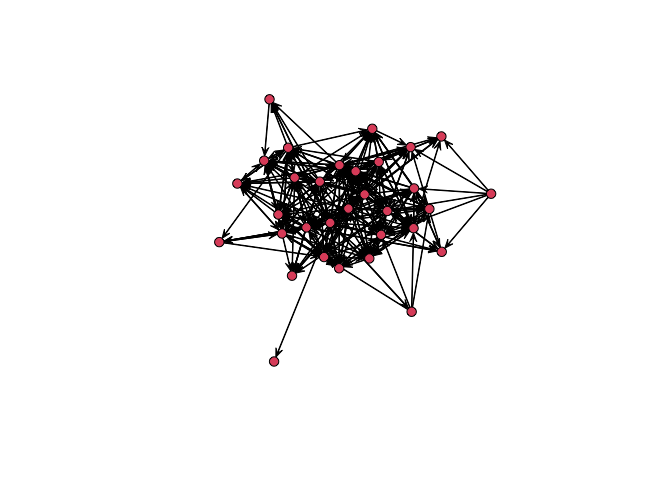
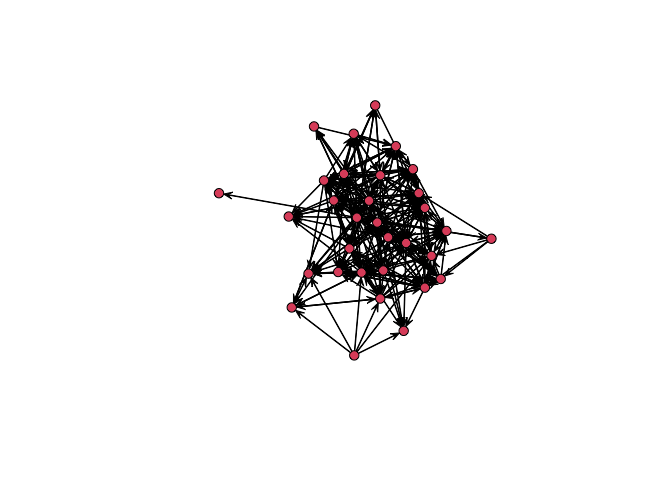
had another go at working around some of the function requirements in igraph - unsuccessful for now but will revisit when i have more time.

Changed region(s): [[0.3125, 0.1875, 0.75, 0.7812]]

diff --git a/network-and-social-media-methods/ps3.md b/network-and-social-media-methods/ps3.md
@@ -85,6 +85,7 @@ while this represents the portion of dyads that are reciprocated.
 
 ``` r
 detach("package:sna",unload=TRUE)
+detach("package:network", unload=TRUE)
 ```
 
 ``` r
@@ -93,13 +94,6 @@ library(igraph)
 
     ## 
     ## Attaching package: 'igraph'
-
-    ## The following objects are masked from 'package:network':
-    ## 
-    ##     %c%, %s%, add.edges, add.vertices, delete.edges, delete.vertices,
-    ##     get.edge.attribute, get.edges, get.vertex.attribute, is.bipartite,
-    ##     is.directed, list.edge.attributes, list.vertex.attributes,
-    ##     set.edge.attribute, set.vertex.attribute
 
     ## The following objects are masked from 'package:stats':
     ## 
@@ -115,8 +109,21 @@ dim(senator_data_asmat)
 
     ## [1] 300   2
 
-Issues with non-square matrix - will resolve later after researching
-function parameters.
+``` r
+mat <- as.matrix(read.csv("/Users/kenjinchang/github/phd-problemsets/data/nys_senators_edgelist.csv"),rownames=1,header=TRUE) 
+mat %>% head(6)
+```
 
-graph_from_adjacency_matrix(adjmatrix=senator_data_asmat,
-mode=“directed”,diag=FALSE)
+    ##   follower  followee     
+    ## 1 "Amedore" "LaValle"    
+    ## 2 "Amedore" "Hannon"     
+    ## 3 "Amedore" "Ortt"       
+    ## 4 "Amedore" "Lanza"      
+    ## 5 "Amedore" "Bonacic"    
+    ## 6 "Amedore" "DeFrancisco"
+
+g1 \<-
+graph_from_adjacency_matrix(adjmatrix=mat,mode=“directed”,diag=TRUE)
+
+having trouble configuring the data to fit the function requirements -
+will revisit when I have more time.
